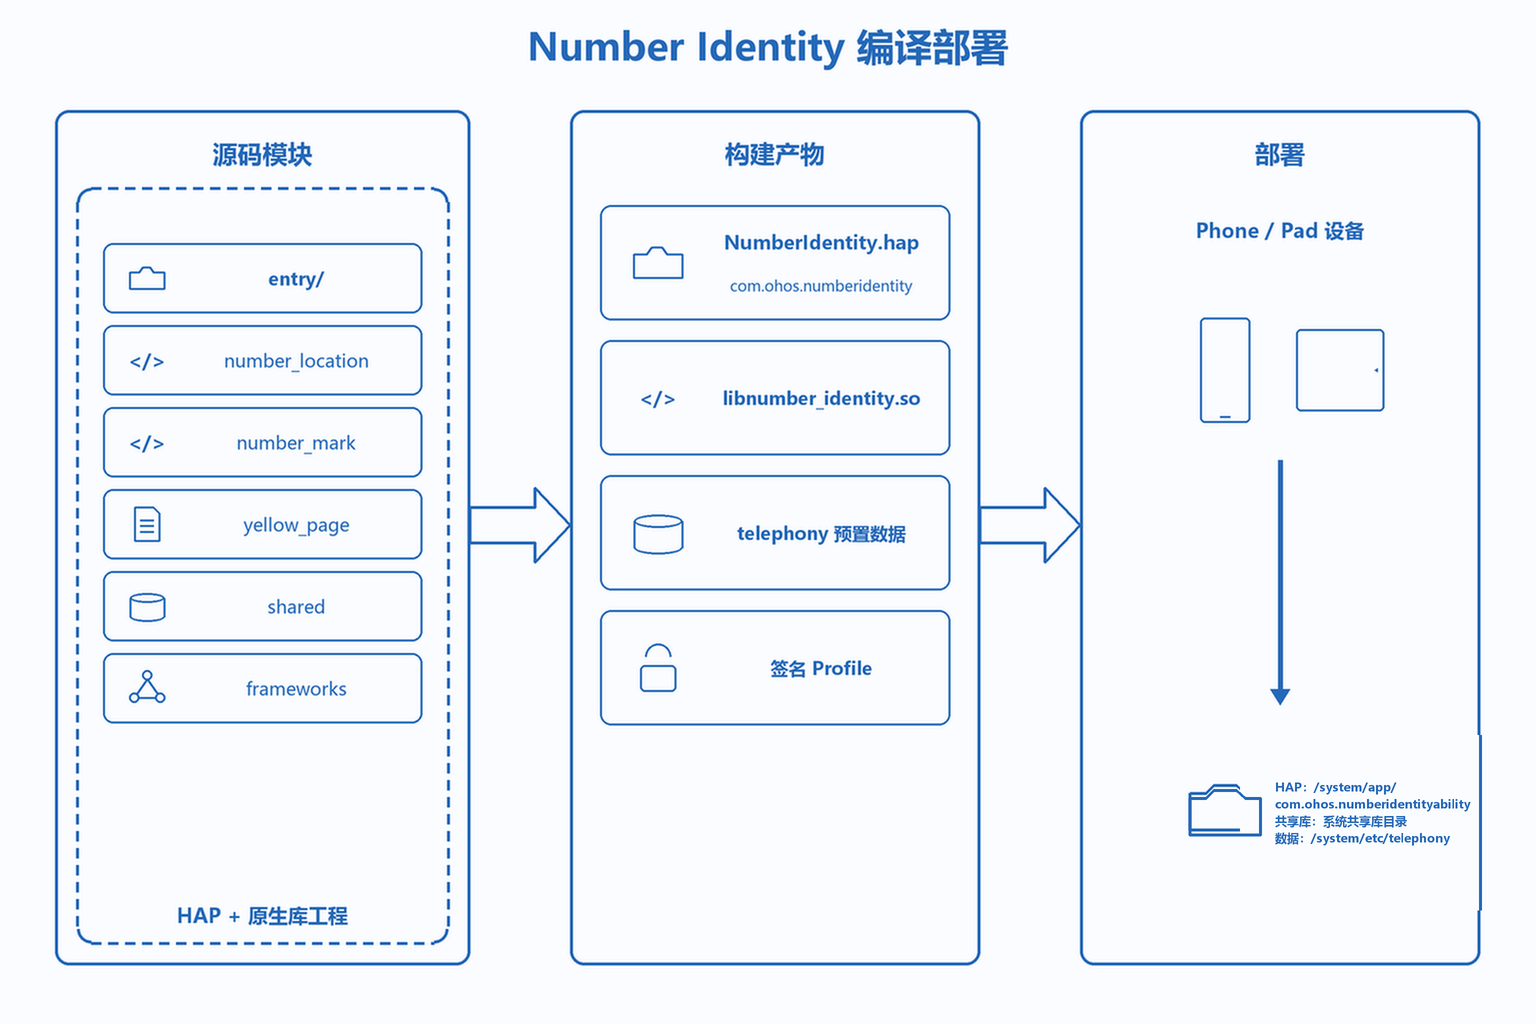
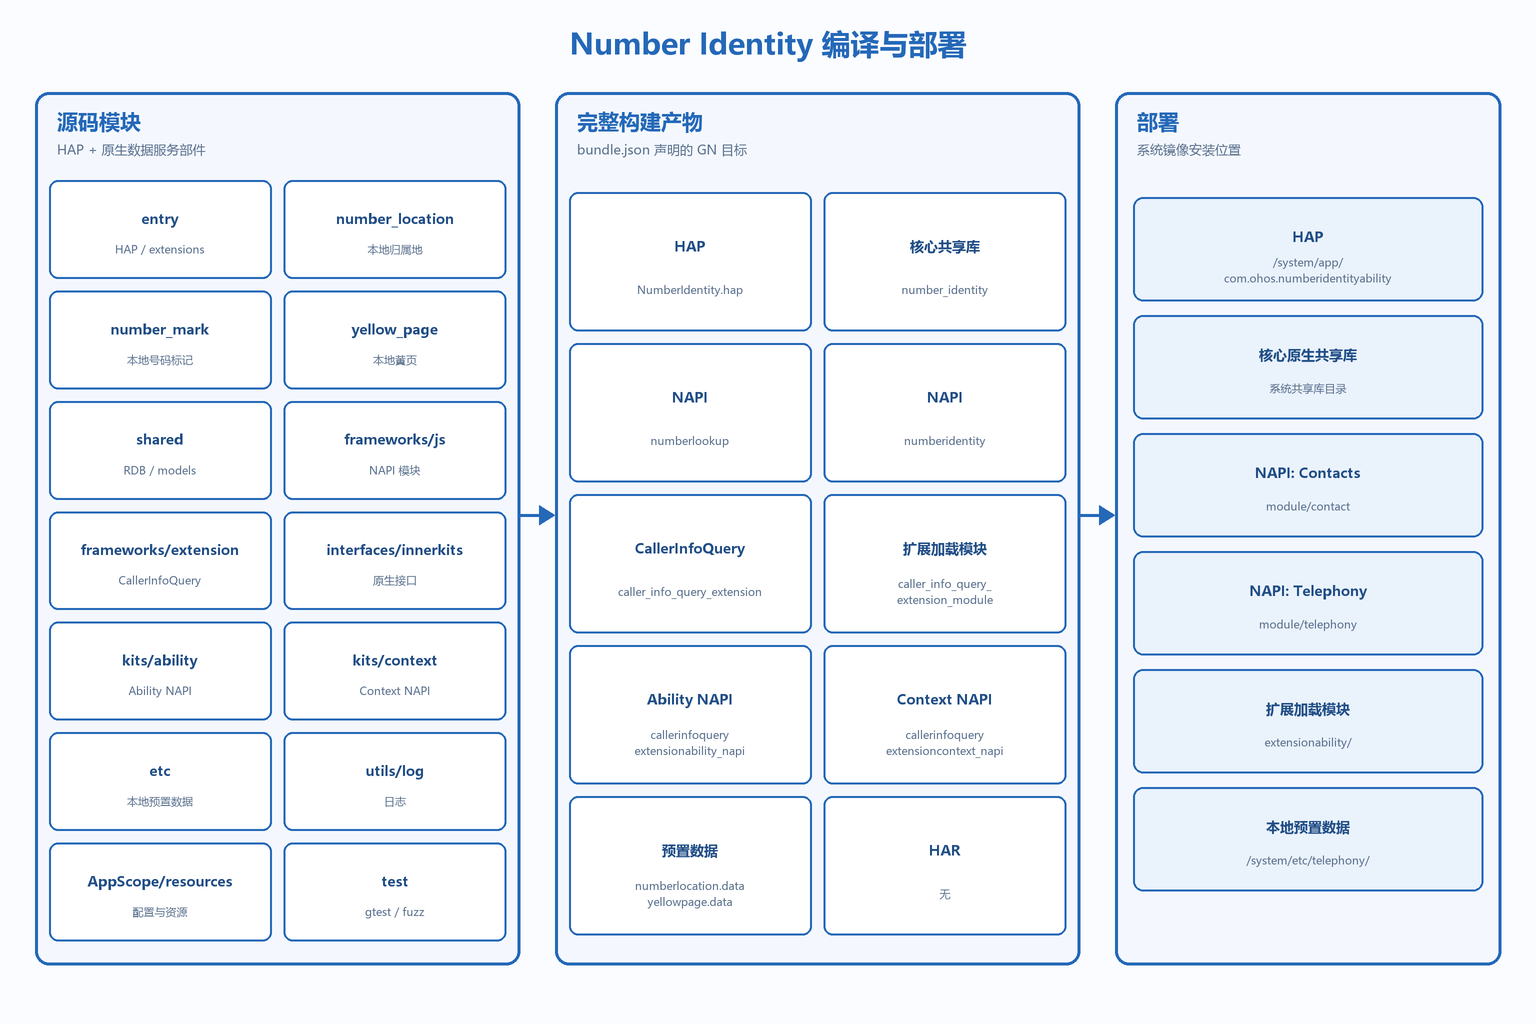
删除README中的敏感词

diff --git a/REAMDE_en.md b/REAMDE_en.md
@@ -118,10 +118,12 @@ Internally the component is organized by product / feature / common capabilities
 
 Number Identity supports dual build systems: standalone Hvigor HAP build, and system GN integration for HAP + shared library + prebuilt data.
 
+The following diagram lists all source modules, HAP, native / NAPI shared libraries, extension loaders, and prebuilt data referenced by the `bundle.json` build groups. No standalone HAR is defined.
+
 ![Number Identity build and deploy](./figures/numberidentity_build_en.png)
 
 ### Environment Requirements
-- OpenHarmony / HarmonyOS SDK (the standalone HAP project uses `compileSdkVersion` 23 and `compatibleSdkVersion` / `targetSdkVersion` 20)
+- OpenHarmony SDK (the standalone HAP project uses `compileSdkVersion` 23 and `compatibleSdkVersion` / `targetSdkVersion` 20)
 - OpenHarmony source tree (component path: `base/telephony/number_identity`)
 - DevEco Studio or Hvigor; system GN toolchain
 - Signing configuration for the system-source build (see `signature/pm.gni`; certificates and profiles are supplied by the product build environment)
@@ -146,11 +148,15 @@ hvigorw assembleHap
 
 ### Build Outputs
 
-| Output | Description |
-| ---- | ---- |
-| NumberIdentity.hap | entry module package; the system GN configuration installs it to `/system/app/com.ohos.numberidentityability` |
-| libnumber_identity.so | Feature + common shared library |
-| etc telephony data | `etc/` prebuilt data installed to `/system/etc/telephony/` |
+| Type | Output / GN target | Description |
+| ---- | ------------------ | ----------- |
+| HAP | `NumberIdentity.hap` (target `NumberIdentity`) | entry module installed to `/system/app/com.ohos.numberidentityability` |
+| Native shared library | `number_identity` | Core number-location, number-mark, yellow-page, and shared RDB implementation |
+| NAPI shared libraries | `numberlookup`, `numberidentity` | Installed to `module/contact` and `module/telephony`, respectively |
+| CallerInfoQuery libraries | `caller_info_query_extension`, `caller_info_query_extension_module` | Extension framework and `extensionability/` loader |
+| CallerInfoQuery NAPI | `callerinfoqueryextensionability_napi`, `callerinfoqueryextensioncontext_napi` | Ability and Context JS/NAPI modules |
+| Prebuilt data | `numberlocation.data`, `yellowpage.data` | Installed to `/system/etc/telephony/` |
+| HAR | None | No `ohos_har` or HAR module is defined; public capabilities are provided through native libraries and NAPI |
 
 `bundle.json` declares ownership under the telephony subsystem. Build groups include `fwk_group` (NAPI / extension / etc) and `service_group` (HAP / so).
 
@@ -167,10 +173,45 @@ Typical scenarios: add local query dimensions, extend CallerInfoQuery, or custom
 2. Route via `NumberIdentityDataShareStubImpl` URI dispatch.
 3. Wrap results with Bridge classes.
 
+The existing Stub routes each URI to one of three local DataShare abilities:
+
+```cpp
+std::shared_ptr<DataShareExtAbility>
+NumberIdentityDataShareStubImpl::GetOwner(const Uri &uri)
+{
+    OHOS::Uri uriTemp = uri;
+    std::string path = uriTemp.GetPath();
+    if (path.find("com.ohos.numberlocationability") != std::string::npos) {
+        return GetNumberLocationAbility();
+    }
+    if (path.find("com.ohos.downloadfileability") != std::string::npos) {
+        return GetDownloadFileAbility();
+    }
+    if (path.find("com.ohos.numbermarkability") != std::string::npos) {
+        return GetNumberMarkAbility();
+    }
+    return nullptr;
+}
+```
+
 **Adding NAPI APIs**
 1. Register new APIs under `frameworks/js`.
 2. Access the corresponding URI through `DataShareHelper`.
 3. Update type declarations in `interfaces/`.
+
+The same interfaces are registered under two module names for Telephony and Contacts:
+
+```cpp
+static napi_module g_nativeNumberIdentityModule = {
+    .nm_register_func = NapiNumberIdentity::RegisterNumberIdentityFunc,
+    .nm_modname = "telephony.numberidentity",
+};
+
+static napi_module g_nativeNumberLookupModule = {
+    .nm_register_func = NapiNumberIdentity::RegisterNumberIdentityFunc,
+    .nm_modname = "contact.numberlookup",
+};
+```
 
 **Extending CallerInfoQuery**
 1. Implement `CallerInfoQueryExtensionAbility` in a third-party app.
@@ -185,6 +226,20 @@ Typical scenarios: add local identification dimensions, data-file update strateg
 2. For new DataShare URIs, update StubImpl routing and `module.json5`.
 3. For external exposure, update `interfaces/` and NAPI registration.
 4. Add gtest / fuzz coverage under `test/`.
+
+For example, a new DataShare capability must declare its type, URI, and access permissions:
+
+```json
+{
+  "name": "NumberMarkAbility",
+  "srcEntry": "./ets/DataShareExtAbility/DataShareExtAbility.ts",
+  "readPermission": "ohos.permission.GET_TELEPHONY_STATE",
+  "writePermission": "ohos.permission.SET_TELEPHONY_STATE",
+  "type": "dataShare",
+  "uri": "datashare://com.ohos.numbermarkability",
+  "visible": true
+}
+```
 
 ## Directory
 ```text

diff --git a/README_zh.md b/README_zh.md
@@ -118,10 +118,12 @@ CallUI / Contacts / NAPI
 
 Number Identity 支持双构建体系：Hvigor 独立构建 HAP，以及系统 GN 合入构建 HAP + 共享库 + 预置数据。
 
+下图完整列出 `bundle.json` 构建分组涉及的源码模块、HAP、原生 / NAPI 共享库、扩展加载模块和预置数据；本工程没有独立 HAR。
+
 ![Number Identity 编译部署](./figures/numberidentity_build.png)
 
 ### 环境要求
-- OpenHarmony / HarmonyOS SDK（独立 HAP 工程的 `compileSdkVersion` 为 23，`compatibleSdkVersion` / `targetSdkVersion` 为 20）
+- OpenHarmony SDK（独立 HAP 工程的 `compileSdkVersion` 为 23，`compatibleSdkVersion` / `targetSdkVersion` 为 20）
 - OpenHarmony 系统源码树（部件路径：`base/telephony/number_identity`）
 - DevEco Studio 或命令行 Hvigor；系统 GN 工具链
 - 系统源码构建所需签名配置（见 `signature/pm.gni`；证书与 profile 由产品构建环境提供）
@@ -146,11 +148,15 @@ hvigorw assembleHap
 
 ### 构建产物
 
-| 产物 | 说明 |
-| ---- | ---- |
-| NumberIdentity.hap | entry 模块打包；系统 GN 配置安装至 `/system/app/com.ohos.numberidentityability` |
-| libnumber_identity.so | 特性层 + 公共能力层共享库 |
-| etc telephony data | `etc/` 预置数据安装至 `/system/etc/telephony/` |
+| 类型 | 产物 / GN 目标 | 说明 |
+| ---- | -------------- | ---- |
+| HAP | `NumberIdentity.hap`（目标 `NumberIdentity`） | entry 模块；安装至 `/system/app/com.ohos.numberidentityability` |
+| 原生共享库 | `number_identity` | 归属地、号码标记、黄页与 shared RDB 核心实现 |
+| NAPI 共享库 | `numberlookup`、`numberidentity` | 分别安装至 `module/contact`、`module/telephony` |
+| CallerInfoQuery 共享库 | `caller_info_query_extension`、`caller_info_query_extension_module` | 扩展框架及 `extensionability/` 加载模块 |
+| CallerInfoQuery NAPI | `callerinfoqueryextensionability_napi`、`callerinfoqueryextensioncontext_napi` | Ability 与 Context JS/NAPI 模块 |
+| 预置数据 | `numberlocation.data`、`yellowpage.data` | 安装至 `/system/etc/telephony/` |
+| HAR | 无 | 工程未定义 `ohos_har` / HAR 模块；对外能力通过原生共享库与 NAPI 提供 |
 
 `bundle.json` 声明部件归属 telephony 子系统，构建分组包含 `fwk_group`（NAPI / 扩展 / etc）与 `service_group`（HAP / so）。
 
@@ -167,10 +173,45 @@ Number Identity 采用 **ArkTS + C++** 混合开发，DataShare 核心逻辑在 
 2. 通过 `NumberIdentityDataShareStubImpl` 的 URI 路由分发到目标 Ability。
 3. 使用 Bridge 类封装返回结果。
 
+现有路由中，Stub 根据 URI 将请求交给三个本地 DataShare Ability：
+
+```cpp
+std::shared_ptr<DataShareExtAbility>
+NumberIdentityDataShareStubImpl::GetOwner(const Uri &uri)
+{
+    OHOS::Uri uriTemp = uri;
+    std::string path = uriTemp.GetPath();
+    if (path.find("com.ohos.numberlocationability") != std::string::npos) {
+        return GetNumberLocationAbility();
+    }
+    if (path.find("com.ohos.downloadfileability") != std::string::npos) {
+        return GetDownloadFileAbility();
+    }
+    if (path.find("com.ohos.numbermarkability") != std::string::npos) {
+        return GetNumberMarkAbility();
+    }
+    return nullptr;
+}
+```
+
 **新增 NAPI 接口**
 1. 在 `frameworks/js` 中注册新接口。
 2. 内部通过 `DataShareHelper` 访问对应 URI。
 3. 更新 `interfaces/` 中的类型声明。
+
+同一套接口以两个模块名注册，分别供 Telephony 与 Contacts 使用：
+
+```cpp
+static napi_module g_nativeNumberIdentityModule = {
+    .nm_register_func = NapiNumberIdentity::RegisterNumberIdentityFunc,
+    .nm_modname = "telephony.numberidentity",
+};
+
+static napi_module g_nativeNumberLookupModule = {
+    .nm_register_func = NapiNumberIdentity::RegisterNumberIdentityFunc,
+    .nm_modname = "contact.numberlookup",
+};
+```
 
 **扩展 CallerInfoQuery**
 1. 第三方应用实现 `CallerInfoQueryExtensionAbility`。
@@ -185,6 +226,20 @@ Number Identity 采用 **ArkTS + C++** 混合开发，DataShare 核心逻辑在 
 2. 如需新 DataShare URI，同步更新 StubImpl 路由与 `module.json5` 声明。
 3. 如需对外暴露，补充 `interfaces/` 与 NAPI 注册。
 4. 在 `test/` 中补充 gtest / fuzz 用例。
+
+例如，新增 DataShare 能力时需要同步声明类型、URI 与访问权限：
+
+```json
+{
+  "name": "NumberMarkAbility",
+  "srcEntry": "./ets/DataShareExtAbility/DataShareExtAbility.ts",
+  "readPermission": "ohos.permission.GET_TELEPHONY_STATE",
+  "writePermission": "ohos.permission.SET_TELEPHONY_STATE",
+  "type": "dataShare",
+  "uri": "datashare://com.ohos.numbermarkability",
+  "visible": true
+}
+```
 
 ## 目录
 ```text
